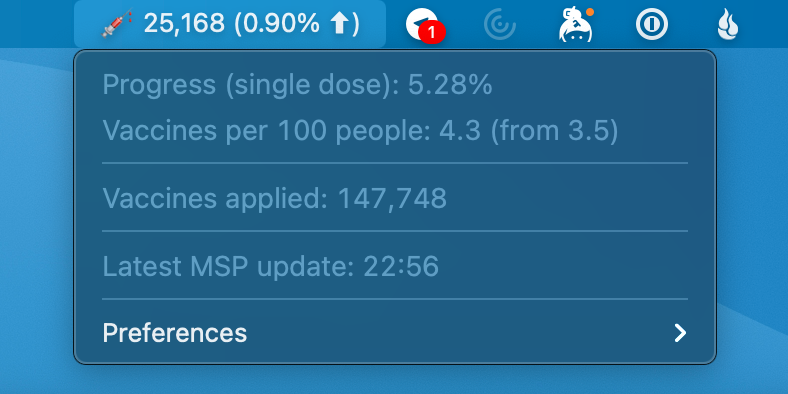
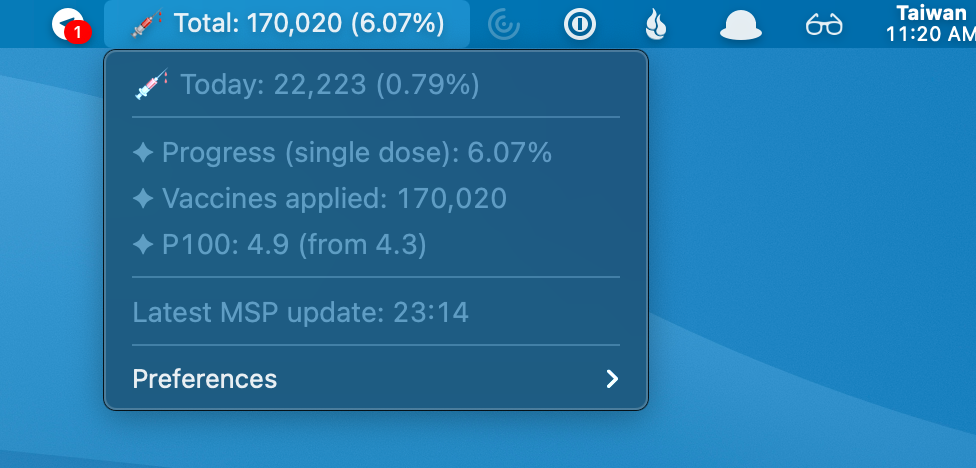
Reorg

diff --git a/src/plugin.js b/src/plugin.js
@@ -1,0 +1,59 @@
+const axios = require("axios");
+
+const {
+  apiEndpoint: ENDPOINT,
+  uruguayPopulation: URUGUAY_POPULATION,
+  targetPopulation: POPULATION_TARGET,
+} = require("../config");
+
+const t = require("./i18n");
+const { formatP, formatN } = require("./utils");
+
+function renderVaccineData({ hour, vaccine: { historical } }) {
+  const grandTotal = historical.reduce((prev, curr) => prev + curr.total, 0);
+  const todayTotal = historical[historical.length - 1].total;
+  const grandTotalWithoutToday = grandTotal - todayTotal;
+
+  const yesterdayRate = grandTotalWithoutToday / POPULATION_TARGET;
+  const todayRate = grandTotal / POPULATION_TARGET;
+
+  const yesterdayP100 = (
+    (grandTotalWithoutToday / URUGUAY_POPULATION) *
+    100
+  ).toFixed(1);
+  const todayP100 = ((grandTotal / URUGUAY_POPULATION) * 100).toFixed(1);
+
+  const diff = todayRate - yesterdayRate;
+
+  const showTodayOrTotal = new Date().getUTCMinutes() % 2 === 0;
+
+  const today = `${t("today")} ${formatN(todayTotal)} (${formatP(diff)}%)`;
+  const total = `Total: ${formatN(grandTotal)} (${formatP(todayRate)}%)`;
+
+  return `💉 ${showTodayOrTotal ? today : total}
+    ---
+    💉 ${showTodayOrTotal ? total : today}
+    ---
+    ✦ ${t("progress_single_dose")} ${formatP(todayRate)}%
+    ✦ ${t("vaccines_applied")} ${formatN(grandTotal)}
+    ✦ P100: ${formatN(todayP100)} (from ${formatN(yesterdayP100)})
+    ---
+    ${t("latest_update")} ${hour}`;
+}
+
+async function getVaccineData() {
+  const { data } = await axios.get(ENDPOINT);
+
+  return renderVaccineData(data);
+}
+
+module.exports = async () => {
+  try {
+    const data = await getVaccineData();
+    console.log(data);
+  } catch (err) {
+    console.log("💉 [ERROR]");
+    console.log("---");
+    console.log(err.message);
+  }
+};

diff --git a/index.js b/index.js
@@ -1,53 +1,3 @@
-const axios = require("axios");
+const run = require("./src/plugin");
 
-const ENDPOINT = "https://msp.gxportal.net/data-vaccine.json";
-const URUGUAY_POPULATION = 3_470_000;
-const POPULATION_TARGET = 2_800_000;
-
-const formatP = (x) => (x * 100).toFixed(2);
-const formatN = (x) => new Intl.NumberFormat("en-US").format(x);
-
-function renderVaccineData({ hour, vaccine: { historical } }) {
-  const grandTotal = historical.reduce((prev, curr) => prev + curr.total, 0);
-  const todayTotal = historical[historical.length - 1].total;
-  const grandTotalWithoutToday = grandTotal - todayTotal;
-
-  const yesterdayRate = grandTotalWithoutToday / POPULATION_TARGET;
-  const todayRate = grandTotal / POPULATION_TARGET;
-
-  const yesterdayP100 = (
-    (grandTotalWithoutToday / URUGUAY_POPULATION) *
-    100
-  ).toFixed(1);
-  const todayP100 = ((grandTotal / URUGUAY_POPULATION) * 100).toFixed(1);
-
-  const diff = todayRate - yesterdayRate;
-
-  return `💉 ${formatN(todayTotal)} (${formatP(diff)}% ${diff >= 0 ? "⬆" : "⬇"})
-    ---
-    Progress (single dose): ${formatP(todayRate)}%
-    Vaccines per 100 people: ${formatN(todayP100)} (from ${formatN(
-    yesterdayP100
-  )})
-    ---
-    Vaccines applied: ${formatN(grandTotal)}
-    ---
-    Latest MSP update: ${hour}`;
-}
-
-async function getVaccineData() {
-  const { data } = await axios.get(ENDPOINT);
-
-  return renderVaccineData(data);
-}
-
-(async () => {
-  try {
-    const data = await getVaccineData();
-    console.log(data);
-  } catch (err) {
-    console.log("💉 [ERROR]");
-    console.log("---");
-    console.log(err.message);
-  }
-})();
+run();

diff --git a/src/i18n.js b/src/i18n.js
@@ -1,0 +1,20 @@
+const config = require("../config");
+
+const STRINGS = {
+  en: {
+    today: "Today:",
+    progress_single_dose: "Progress (single dose):",
+    vaccines_applied: "Vaccines applied:",
+    latest_update: "Latest MSP update:",
+    date_locale: "en-US",
+  },
+  es: {
+    today: "Hoy:",
+    progress_single_dose: "Progreso (una dosis):",
+    vaccines_applied: "Vacunas aplicadas:",
+    latest_update: "Actualización del MSP:",
+    date_locale: "es-UY",
+  },
+};
+
+module.exports = (key) => STRINGS[config.language][key] || "<<i18n missing>>";

diff --git a/config.js b/config.js
@@ -1,0 +1,8 @@
+module.exports = {
+  language: "en", // 'es' also available
+
+  // DO NOT TOUCH IF NOT NECESSARY
+  apiEndpoint: "https://msp.gxportal.net/data-vaccine.json",
+  uruguayPopulation: 3_470_000,
+  targetPopulation: 2_800_000,
+};

diff --git a/src/utils.js b/src/utils.js
@@ -1,0 +1,6 @@
+const t = require("./i18n");
+
+const formatP = (x) => (x * 100).toFixed(2);
+const formatN = (x) => new Intl.NumberFormat(t("date_locale")).format(x);
+
+module.exports = { formatP, formatN };

diff --git a/README.md b/README.md
@@ -1,6 +1,9 @@
-<center>
-  <h1>xbar-uy-vaccines-plugin</h1> 
+<p align="center">
+  <h2 align="center">xbar-uy-vaccines-plugin</h2> 
   <p>Simple `xbar` plugin to track how many of us uruguayans are vaccinated against COVID-19.</p>
-</center>
+  <img width="460" src="./.github/screenshot.png" />
+</p>
 
-![screenshot](./.github/screenshot.png)
+### How to use it in Spanish
+Go to `config.js` and change `language` to `"es"`.
+
